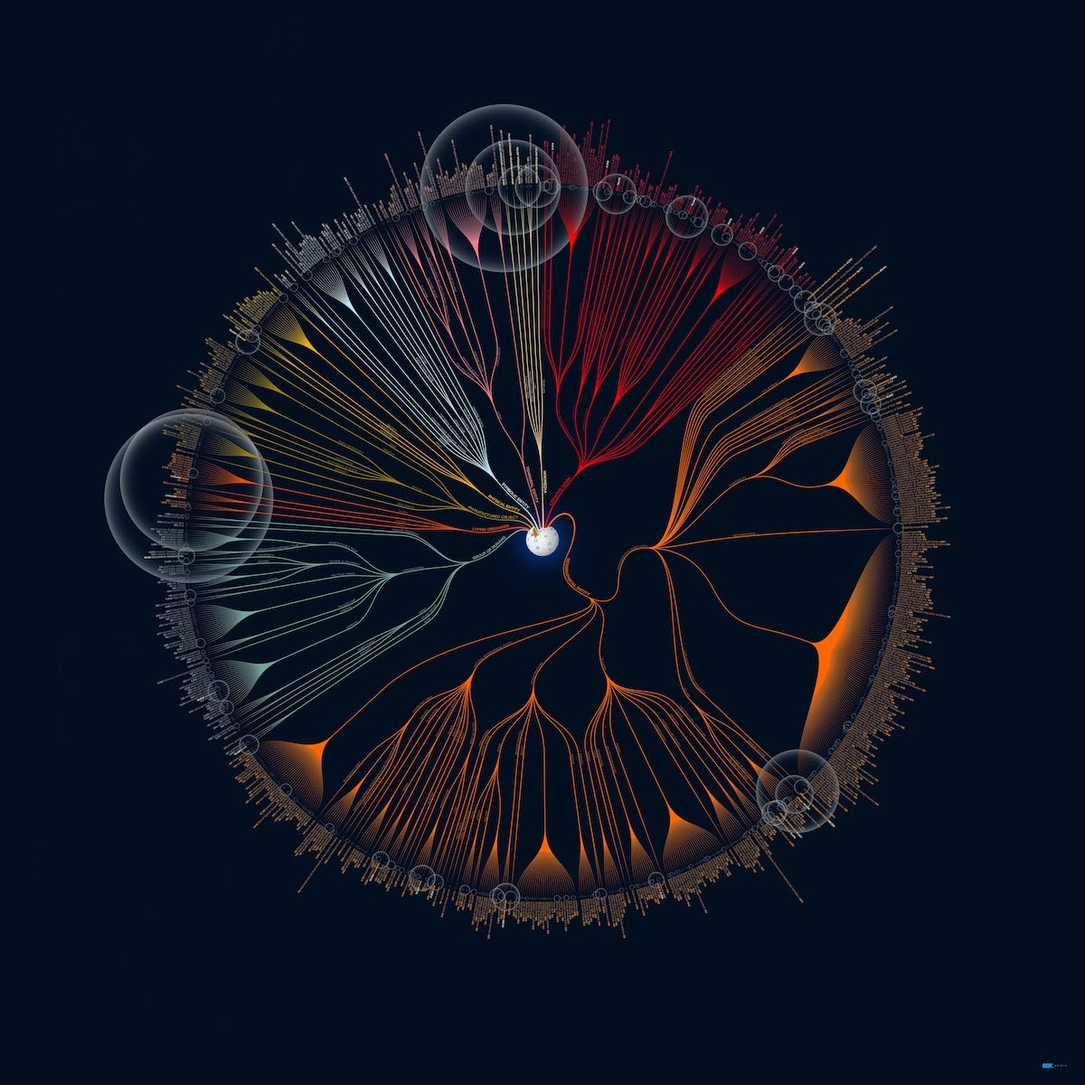
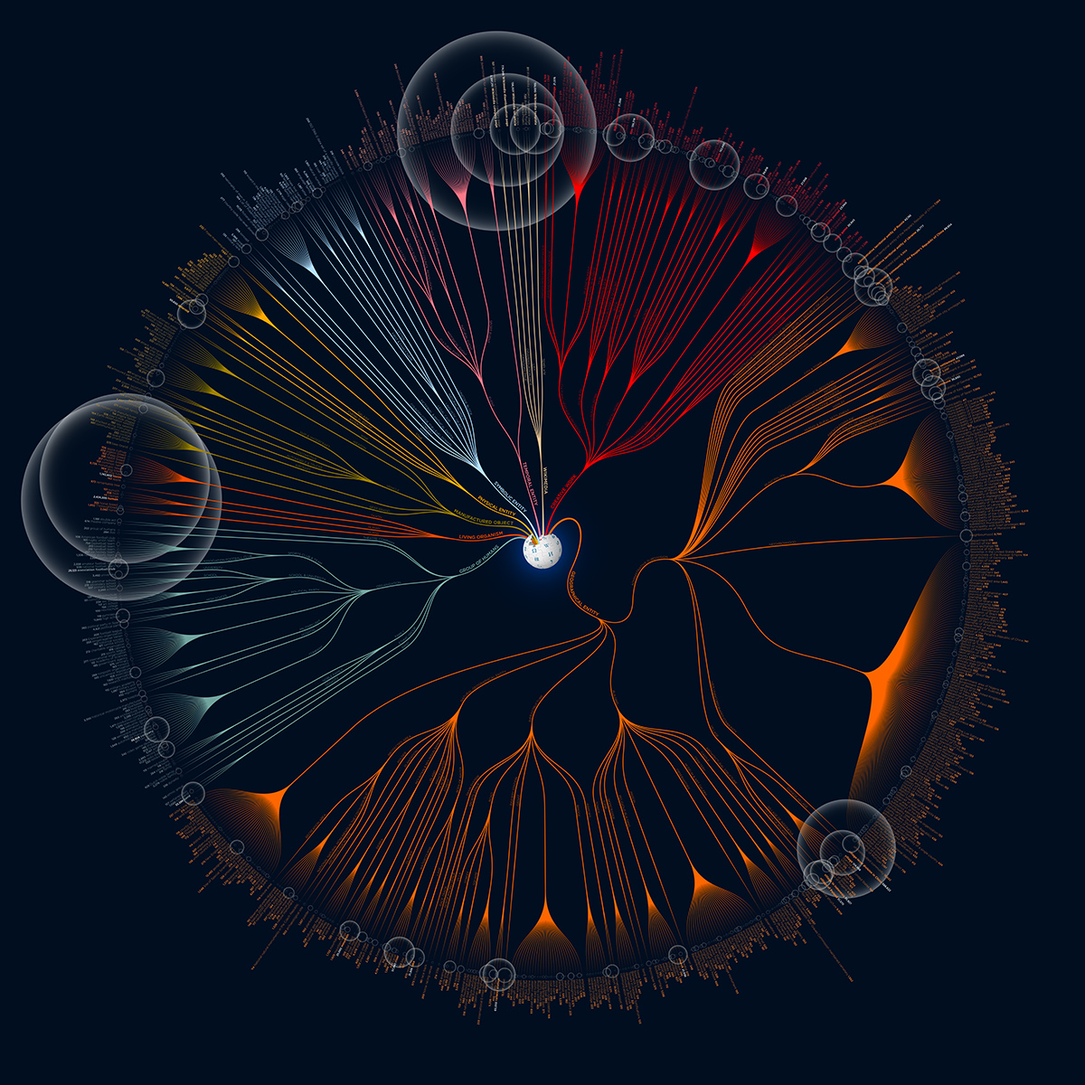
Update images / Add bold to title

Changed region(s): [[0.0, 0.0308, 0.9558, 0.925], [0.6783, 0.555, 0.7092, 0.5858]]

diff --git a/web/css/style.css b/web/css/style.css
@@ -1,1 +1,1 @@
-@-webkit-keyframes fadeIn{0%{opacity:0}100%{opacity:1}}@keyframes fadeIn{0%{opacity:0}100%{opacity:1}}.sxy-zoom-container .sxy-zoom-viewport img{max-width:none !important;border-radius:0 !important}.sxy-zoom-container .sxy-zoom-viewport{z-index:1000}.sxy-zoom-container img{border:0}.sxy-zoom-container div{margin:0;padding:0;border:0}.sxy-zoom-container .sxy-zoom-dragpad,.sxy-zoom-container .sxy-overlay,.sxy-zoom-container .inner-thumb,.sxy-zoom-container .sxy-zoom-bg{width:100%;height:100%}.sxy-zoom-bg{left:0;top:0;position:absolute}.sxy-zoom-container .sxy-controls{height:100%}.sxy-zoom-container .overlay{height:100%}.sxy-zoom-container .sxy-slider{height:100%}.sxy-zoom-container .sxy-zoom-dragpad{position:absolute !important;left:0;top:0}.sxy-zoom-container .sxy-controls{box-sizing:border-box;-moz-box-sizing:border-box;-webkit-box-sizing:border-box;width:26px;left:-26px;top:0px;position:absolute;overflow:hidden;filter:inherit}.sxy-zoom-container .sxy-controls .overlay{position:absolute;top:0px;left:0px;width:26px;border-top-left-radius:3px;-webkit-border-top-left-radius:3px;-moz-border-radius-topleft:3px;border-bottom-left-radius:3px;-webkit-border-bottom-left-radius:3px;-moz-border-radius-bottomleft:3px;background:#fff;filter:inherit}.sxy-zoom-container .in{filter:inherit;left:2px;width:22px;height:23px;background:url(controls.png) 0px -15px;position:relative;display:block;top:3px}.sxy-zoom-container .out{filter:inherit;width:22px;height:23px;background:url(controls.png) 0px -38px;position:relative;left:2px;display:block}.sxy-zoom-container .sxy-slider{filter:inherit;background:url(controls.png) -25px 0px repeat-y;position:relative}.sxy-zoom-container .sxy-handle{filter:inherit;left:2px;width:20px;height:16px;background:url(controls.png) 0px 0px no-repeat;top:20px;position:absolute;font-size:0}.sxy-zoom-container{position:relative}.sxy-zoom-container .sxy-zoom-viewfinder{position:absolute;border:1px solid #d9cfba;border:1px solid rgba(255,255,255,0.4);box-sizing:border-box;-moz-box-sizing:border-box;-webkit-box-sizing:border-box}.sxy-zoom-container .inner-thumb{position:absolute;top:0;left:0}.sxy-zoom-container .sxy-zoom-dragpad{position:relative}.sxy-zoom-container .sxy-zoom-dragpad .sxy-overlay{position:absolute;top:0px;left:0px}.sxy-zoom-container .sxy-zoom-viewport{position:absolute;overflow:hidden;top:0}.sxy-zoom-container .sxy-zoom-viewport img{position:absolute}.sxy-zoom-container.sxy-zoom-loading .sxy-loading{background:#fff;padding:5px;position:absolute;top:0;left:0;margin:5px;border-radius:6px;-webkit-border-radius:6px;-moz-border-radius:6px;box-shadow:2px 2px 4px rgba(50,50,50,0.68);-webkit-box-shadow:2px 2px 4px rgba(50,50,50,0.68);-moz-box-shadow:2px 2px 4px rgba(50,50,50,0.68);opacity:0.35;filter:alpha(opacity=35)}.sxy-zoom-container.sxy-zoom-loading .sxy-loading span{background:url(loading.gif) no-repeat;width:25px;height:25px;display:block}.sxy-zoom-mode-dock .sxy-zoom-viewport{box-sizing:border-box;-moz-box-sizing:border-box;-webkit-box-sizing:border-box;border:1px solid #000;position:absolute;overflow:hidden;top:0;box-shadow:2px 2px 4px rgba(50,50,50,0.68);-webkit-box-shadow:2px 2px 4px rgba(50,50,50,0.68);-moz-box-shadow:2px 2px 4px rgba(50,50,50,0.68)}.sxy-zoom-mode-dock .sxy-zoom-dragpad .sxy-overlay{background:#000000;opacity:0.0;filter:alpha(opacity=0)}.sxy-zoom-mode-window .sxy-zoom-viewfinder{z-index:1001}.sxy-zoom-mode-lens .sxy-zoom-viewport{border:1px solid #000;position:absolute;overflow:hidden;top:0;box-shadow:2px 2px 4px rgba(50,50,50,0.68);-webkit-box-shadow:2px 2px 4px rgba(50,50,50,0.68);-moz-box-shadow:2px 2px 4px rgba(50,50,50,0.68);border-radius:50%}.sxy-zoom-mode-slippy .sxy-zoom-dragpad{cursor:pointer}.sxy-zoom-mode-slippy .sxy-zoom-dragpad.down{cursor:move}@font-face{font-family:'Gotham_Thin';src:url("../fonts/gotham-thin-webfont.eot");src:url("../fonts/gotham-thin-webfont.eot?#iefix") format("embedded-opentype"),url("../fonts/gotham-thin-webfont.woff2") format("woff2"),url("../fonts/gotham-thin-webfont.woff") format("woff"),url("../fonts/gotham-thin-webfont.ttf") format("truetype");font-weight:normal;font-style:normal}@font-face{font-family:'Gotham_Light';src:url("../fonts/gotham-light-webfont.eot");src:url("../fonts/gotham-light-webfont.eot?#iefix") format("embedded-opentype"),url("../fonts/gotham-light-webfont.woff2") format("woff2"),url("../fonts/gotham-light-webfont.woff") format("woff"),url("../fonts/gotham-light-webfont.ttf") format("truetype");font-weight:normal;font-style:normal}@font-face{font-family:'Gotham_Ultra';src:url("../fonts/../fonts/gotham-ultra-webfont.eot");src:url("../fonts/gotham-ultra-webfont.eot?#iefix") format("embedded-opentype"),url("../fonts/gotham-ultra-webfont.woff2") format("woff2"),url("../fonts/gotham-ultra-webfont.woff") format("woff"),url("../fonts/gotham-ultra-webfont.ttf") format("truetype");font-weight:normal;font-style:normal}*{-webkit-box-sizing:border-box;-moz-box-sizing:border-box;box-sizing:border-box}*:before,*:after{-webkit-box-sizing:border-box;-moz-box-sizing:border-box;box-sizing:border-box}*:before,*:after{-webkit-box-sizing:border-box;-moz-box-sizing:border-box;box-sizing:border-box}html{font-size:100%;-webkit-text-size-adjust:100%;-ms-text-size-adjust:100%;height:100%}html,button,input,select,textarea{font-family:"Gotham_Thin", Helvetica, Arial, Verdana, sans-serif;color:#009eff}body{background:#000e1f;margin:0;padding:0;height:100%}.visuallyhidden{border:0;clip:rect(0 0 0 0);height:1px;margin:-1px;overflow:hidden;padding:0;position:absolute;width:1px}hr{border:0;border-top-width:1px;border-color:#009eff;border-style:solid;clear:both;height:0;display:block;margin:0}a{color:#009eff;outline:0;text-decoration:none;-webkit-transition:all 0.5s ease-out;-moz-transition:all 0.5s ease-out;-o-transition:all 0.5s ease-out;-ms-transition:all 0.5s ease-out;transition:all 0.5s ease-out;-webkit-backface-visibility:hidden;-webkit-transform:translate3d(0, 0, 0)}.left{float:left}.right{float:right}.aligncenter{text-align:center}.alignleft{float:left;margin:0 14px 10px 0}.alignright{float:right;margin:0 0 10px 14px}.floatleft{float:left}.floatright{float:right}img.alignleft,img.alignright,.img.aligncenter{display:block}img.aligncenter{margin-left:auto;margin-right:auto}b,strong{font-weight:bold}ul,ol{margin:1em 0;padding:0 0 0 40px}img{border:0;vertical-align:middle}form{margin:0}fieldset{border:0;margin:0;padding:0}label{cursor:pointer}button,input,select,textarea{font-size:100%;margin:0;vertical-align:baseline}button{background:none;border:none;margin:0;padding:0}button:focus,input:focus,textarea:focus{outline:none}.oldie select,.oldie textarea{vertical-align:middle}button,input{line-height:normal}button,input[type="button"],input[type="reset"],input[type="submit"]{cursor:pointer;-webkit-appearance:button}.oldie button,.oldie input{overflow:visible;vertical-align:middle}textarea{overflow:auto;vertical-align:top;resize:vertical}.unstyled{list-style-type:none;margin:0;padding:0}.clearfix{zoom:1}.clearfix:before,.clearfix:after{content:"";display:table}.clearfix:after{clear:both}.wrapper__intro{display:table;height:100%;width:100%}.wrapper__intro h1{opacity:0;-webkit-animation:fadeIn 1s ease forwards 1s;-moz-animation:fadeIn 1s ease forwards 1s;-o-animation:fadeIn 1s ease forwards 1s;-ms-animation:fadeIn 1s ease forwards 1s;animation:fadeIn 1s ease forwards 1s;-webkit-transform:translateZ(0);clear:both;display:block;font:normal 5.9375em "Gotham_Light",Verdana,Arial,sans-serif;margin:0;padding:20px 0 10px 0}.wrapper__intro p{opacity:0;-webkit-animation:fadeIn 1s ease forwards 2s;-moz-animation:fadeIn 1s ease forwards 2s;-o-animation:fadeIn 1s ease forwards 2s;-ms-animation:fadeIn 1s ease forwards 2s;animation:fadeIn 1s ease forwards 2s;-webkit-transform:translateZ(0);display:block;font:normal 1em 'Gotham_Light', Verdana, Arial, sans-serif;margin:0 auto;padding:0 0 30px 0;width:650px}.logo{opacity:0;-webkit-animation:fadeIn 1s forwards ease;-moz-animation:fadeIn 1s forwards ease;-o-animation:fadeIn 1s forwards ease;-ms-animation:fadeIn 1s forwards ease;animation:fadeIn 1s forwards ease;-webkit-transform:translateZ(0);background:url(../images/logo-wikidata.png) left top no-repeat;display:block;height:177px;margin:0 auto;padding:0;width:195px;-webkit-filter:drop-shadow(0 0 50px #009eff)}.loading{padding:0 0 0 0;opacity:0;-webkit-animation:fadeIn 1s ease forwards 3s;-moz-animation:fadeIn 1s ease forwards 3s;-o-animation:fadeIn 1s ease forwards 3s;-ms-animation:fadeIn 1s ease forwards 3s;animation:fadeIn 1s ease forwards 3s;-webkit-transform:translateZ(0)}.bt-explore{cursor:pointer;display:none;font-size:3em;padding:0}.wrapper__intro__body{display:table-cell;text-align:center;vertical-align:middle}.wrapper__graph{display:none}.wrapper__graph__body{display:block;margin:0 auto}.wrapper__graph_left,.wrapper__graph_right{position:fixed;height:100%;left:40px;top:0;width:300px;z-index:10}.wrapper__graph_left p,.wrapper__graph_right p{display:block;font-size:1em}.wrapper__graph_left h2,.wrapper__graph_right h2{display:block;font-size:3.125em;margin:0;padding:0 0 10px 0}.wrapper__graph_left h3,.wrapper__graph_right h3{display:block;font-size:2.1875em;margin:0;padding:0 0 10px 0}.wrapper__graph_right{left:auto;right:40px;text-align:center;width:140px}.wrapper__graph_right ul{list-style-type:none;margin:0;padding:0}.wrapper__graph_right li{display:block;height:44px;margin:0 0 15px 0;padding:0;position:relative;z-index:1}.wrapper__graph_right li:after{border-left:1px solid #009eff;content:'';display:block;margin:0 auto;padding:0;height:25px;width:1px}.wrapper__graph_right li:before{background:#009eff;border-radius:50%;content:'';display:block;height:4px;width:4px;position:absolute;bottom:0;margin:0 0 0 -1px;left:50%}.wrapper__graph_right .range-2{height:50px}.wrapper__graph_right .range-2:before{height:14px;margin:0 0 0 -7px;width:14px}.wrapper__graph_right .range-3{height:85px}.wrapper__graph_right .range-3:before{height:46px;margin:0 0 0 -23px;width:46px}.wrapper__graph_right .range-4{height:172px}.wrapper__graph_right .range-4:before{height:130px;margin:0 0 0 -65px;width:130px}.wrapper__graph_left__body,.wrapper__graph_right__body{display:table;height:100%;width:100%}.wrapper__graph_left__body__inner,.wrapper__graph_right__body__inner{display:table-cell;vertical-align:middle}.see-more{-webkit-transition:opacity 0.5s linear;-moz-transition:opacity 0.5s linear;-o-transition:opacity 0.5s linear;-ms-transition:opacity 0.5s linear;transition:opacity 0.5s linear;-webkit-backface-visibility:hidden;-webkit-transform:translate3d(0, 0, 0);background:#009eff;cursor:pointer;border-radius:50%;color:#000e1f;display:block;font-size:3em;height:60px;line-height:60px;margin:0;padding:0;text-align:center;width:60px}.see-more.active .default,.see-more .active{opacity:0;display:none}.see-more.active .active,.see-more .default{opacity:1;display:block}.see-more em{font-style:normal}.see-more__body{-webkit-transition:opacity 0.5s linear;-moz-transition:opacity 0.5s linear;-o-transition:opacity 0.5s linear;-ms-transition:opacity 0.5s linear;transition:opacity 0.5s linear;-webkit-backface-visibility:hidden;-webkit-transform:translate3d(0, 0, 0);opacity:0;display:none;padding:10px 0 0 0}.see-more__body.active{opacity:1;display:block}.dld-pdf{background:#009eff;cursor:pointer;border-radius:50%;color:#000e1f;display:block;font-size:1em;height:50px;line-height:50px;margin:0;padding:0;text-align:center;text-transform:uppercase;width:50px}.loader{margin:0 auto}.loader svg{width:60px;height:60px}.loader svg path,.loader svg rect{fill:#009eff}
+@-webkit-keyframes fadeIn{0%{opacity:0}100%{opacity:1}}@keyframes fadeIn{0%{opacity:0}100%{opacity:1}}@keyframes fromBottomToTop{0%{transform:translate3d(0, 100%, 0);backface-visibility:hidden;perspective:1000}100%{transform:translate3d(0, 0, 0);backface-visibility:hidden;perspective:1000}}.sxy-zoom-container .sxy-zoom-viewport img{max-width:none !important;border-radius:0 !important}.sxy-zoom-container .sxy-zoom-viewport{z-index:1000}.sxy-zoom-container img{border:0}.sxy-zoom-container div{margin:0;padding:0;border:0}.sxy-zoom-container .sxy-zoom-dragpad,.sxy-zoom-container .sxy-overlay,.sxy-zoom-container .inner-thumb,.sxy-zoom-container .sxy-zoom-bg{width:100%;height:100%}.sxy-zoom-bg{left:0;top:0;position:absolute}.sxy-zoom-container .sxy-controls{height:100%}.sxy-zoom-container .overlay{height:100%}.sxy-zoom-container .sxy-slider{height:100%}.sxy-zoom-container .sxy-zoom-dragpad{position:absolute !important;left:0;top:0}.sxy-zoom-container .sxy-controls{box-sizing:border-box;-moz-box-sizing:border-box;-webkit-box-sizing:border-box;width:26px;left:-26px;top:0px;position:absolute;overflow:hidden;filter:inherit}.sxy-zoom-container .sxy-controls .overlay{position:absolute;top:0px;left:0px;width:26px;border-top-left-radius:3px;-webkit-border-top-left-radius:3px;-moz-border-radius-topleft:3px;border-bottom-left-radius:3px;-webkit-border-bottom-left-radius:3px;-moz-border-radius-bottomleft:3px;background:#fff;filter:inherit}.sxy-zoom-container .in{filter:inherit;left:2px;width:22px;height:23px;background:url(controls.png) 0px -15px;position:relative;display:block;top:3px}.sxy-zoom-container .out{filter:inherit;width:22px;height:23px;background:url(controls.png) 0px -38px;position:relative;left:2px;display:block}.sxy-zoom-container .sxy-slider{filter:inherit;background:url(controls.png) -25px 0px repeat-y;position:relative}.sxy-zoom-container .sxy-handle{filter:inherit;left:2px;width:20px;height:16px;background:url(controls.png) 0px 0px no-repeat;top:20px;position:absolute;font-size:0}.sxy-zoom-container{position:relative}.sxy-zoom-container .sxy-zoom-viewfinder{position:absolute;border:1px solid #d9cfba;border:1px solid rgba(255,255,255,0.4);box-sizing:border-box;-moz-box-sizing:border-box;-webkit-box-sizing:border-box}.sxy-zoom-container .inner-thumb{position:absolute;top:0;left:0}.sxy-zoom-container .sxy-zoom-dragpad{position:relative}.sxy-zoom-container .sxy-zoom-dragpad .sxy-overlay{position:absolute;top:0px;left:0px}.sxy-zoom-container .sxy-zoom-viewport{position:absolute;overflow:hidden;top:0}.sxy-zoom-container .sxy-zoom-viewport img{position:absolute}.sxy-zoom-container.sxy-zoom-loading .sxy-loading{background:#fff;padding:5px;position:absolute;top:0;left:0;margin:5px;border-radius:6px;-webkit-border-radius:6px;-moz-border-radius:6px;box-shadow:2px 2px 4px rgba(50,50,50,0.68);-webkit-box-shadow:2px 2px 4px rgba(50,50,50,0.68);-moz-box-shadow:2px 2px 4px rgba(50,50,50,0.68);opacity:0.35;filter:alpha(opacity=35)}.sxy-zoom-container.sxy-zoom-loading .sxy-loading span{background:url(loading.gif) no-repeat;width:25px;height:25px;display:block}.sxy-zoom-mode-dock .sxy-zoom-viewport{box-sizing:border-box;-moz-box-sizing:border-box;-webkit-box-sizing:border-box;border:1px solid #000;position:absolute;overflow:hidden;top:0;box-shadow:2px 2px 4px rgba(50,50,50,0.68);-webkit-box-shadow:2px 2px 4px rgba(50,50,50,0.68);-moz-box-shadow:2px 2px 4px rgba(50,50,50,0.68)}.sxy-zoom-mode-dock .sxy-zoom-dragpad .sxy-overlay{background:#000000;opacity:0.0;filter:alpha(opacity=0)}.sxy-zoom-mode-window .sxy-zoom-viewfinder{z-index:1001}.sxy-zoom-mode-lens .sxy-zoom-viewport{border:1px solid #000;position:absolute;overflow:hidden;top:0;box-shadow:2px 2px 4px rgba(50,50,50,0.68);-webkit-box-shadow:2px 2px 4px rgba(50,50,50,0.68);-moz-box-shadow:2px 2px 4px rgba(50,50,50,0.68);border-radius:50%}.sxy-zoom-mode-slippy .sxy-zoom-dragpad{cursor:pointer}.sxy-zoom-mode-slippy .sxy-zoom-dragpad.down{cursor:move}@font-face{font-family:'Gotham_Thin';src:url("../fonts/gotham-thin-webfont.eot");src:url("../fonts/gotham-thin-webfont.eot?#iefix") format("embedded-opentype"),url("../fonts/gotham-thin-webfont.woff2") format("woff2"),url("../fonts/gotham-thin-webfont.woff") format("woff"),url("../fonts/gotham-thin-webfont.ttf") format("truetype");font-weight:normal;font-style:normal}@font-face{font-family:'Gotham_Light';src:url("../fonts/gotham-light-webfont.eot");src:url("../fonts/gotham-light-webfont.eot?#iefix") format("embedded-opentype"),url("../fonts/gotham-light-webfont.woff2") format("woff2"),url("../fonts/gotham-light-webfont.woff") format("woff"),url("../fonts/gotham-light-webfont.ttf") format("truetype");font-weight:normal;font-style:normal}@font-face{font-family:'Gotham_Ultra';src:url("../fonts/../fonts/gotham-ultra-webfont.eot");src:url("../fonts/gotham-ultra-webfont.eot?#iefix") format("embedded-opentype"),url("../fonts/gotham-ultra-webfont.woff2") format("woff2"),url("../fonts/gotham-ultra-webfont.woff") format("woff"),url("../fonts/gotham-ultra-webfont.ttf") format("truetype");font-weight:normal;font-style:normal}*{-webkit-box-sizing:border-box;-moz-box-sizing:border-box;box-sizing:border-box}*:before,*:after{-webkit-box-sizing:border-box;-moz-box-sizing:border-box;box-sizing:border-box}*:before,*:after{-webkit-box-sizing:border-box;-moz-box-sizing:border-box;box-sizing:border-box}html{font-size:100%;-webkit-text-size-adjust:100%;-ms-text-size-adjust:100%;height:100%}html,button,input,select,textarea{font-family:"Gotham_Thin", Helvetica, Arial, Verdana, sans-serif;color:#009eff}body{background:#000e1f;margin:0;padding:0;height:100%}.visuallyhidden{border:0;clip:rect(0 0 0 0);height:1px;margin:-1px;overflow:hidden;padding:0;position:absolute;width:1px}hr{border:0;border-top-width:1px;border-color:#009eff;border-style:solid;clear:both;height:0;display:block;margin:0}a{color:#009eff;outline:0;text-decoration:none;-webkit-transition:all 0.5s ease-out;-moz-transition:all 0.5s ease-out;-o-transition:all 0.5s ease-out;-ms-transition:all 0.5s ease-out;transition:all 0.5s ease-out;-webkit-backface-visibility:hidden;-webkit-transform:translate3d(0, 0, 0)}.left{float:left}.right{float:right}.aligncenter{text-align:center}.alignleft{float:left;margin:0 14px 10px 0}.alignright{float:right;margin:0 0 10px 14px}.floatleft{float:left}.floatright{float:right}img.alignleft,img.alignright,.img.aligncenter{display:block}img.aligncenter{margin-left:auto;margin-right:auto}b,strong{font-weight:bold}ul,ol{margin:1em 0;padding:0 0 0 40px}img{border:0;vertical-align:middle}form{margin:0}fieldset{border:0;margin:0;padding:0}label{cursor:pointer}button,input,select,textarea{font-size:100%;margin:0;vertical-align:baseline}button{background:none;border:none;margin:0;padding:0}button:focus,input:focus,textarea:focus{outline:none}.oldie select,.oldie textarea{vertical-align:middle}button,input{line-height:normal}button,input[type="button"],input[type="reset"],input[type="submit"]{cursor:pointer;-webkit-appearance:button}.oldie button,.oldie input{overflow:visible;vertical-align:middle}textarea{overflow:auto;vertical-align:top;resize:vertical}.unstyled{list-style-type:none;margin:0;padding:0}.clearfix{zoom:1}.clearfix:before,.clearfix:after{content:"";display:table}.clearfix:after{clear:both}.wrapper__intro{display:table;height:100%;width:100%}.wrapper__intro h1{opacity:0;-webkit-animation:fadeIn 1s ease forwards 1s;-moz-animation:fadeIn 1s ease forwards 1s;-o-animation:fadeIn 1s ease forwards 1s;-ms-animation:fadeIn 1s ease forwards 1s;animation:fadeIn 1s ease forwards 1s;clear:both;display:block;font:normal 5.9375em "Gotham_Light",Verdana,Arial,sans-serif;margin:0;padding:20px 0 10px 0}.wrapper__intro p{opacity:0;-webkit-animation:fadeIn 1s ease forwards 2s;-moz-animation:fadeIn 1s ease forwards 2s;-o-animation:fadeIn 1s ease forwards 2s;-ms-animation:fadeIn 1s ease forwards 2s;animation:fadeIn 1s ease forwards 2s;display:block;font:normal .9em/1.3 'Gotham_Light', Verdana, Arial, sans-serif;margin:0 auto;padding:0 0 30px 0;width:650px}.logo{opacity:0;-webkit-animation:fadeIn 1s ease forwards;-moz-animation:fadeIn 1s ease forwards;-o-animation:fadeIn 1s ease forwards;-ms-animation:fadeIn 1s ease forwards;animation:fadeIn 1s ease forwards;background:url(../images/logo-wikidata.png) left top no-repeat;display:block;height:177px;margin:0 auto;padding:0;position:relative;width:195px;-webkit-filter:drop-shadow(0 0 50px #009eff)}.loading{padding:0 0 0 0;opacity:0;-webkit-animation:fadeIn 1s ease forwards 3s;-moz-animation:fadeIn 1s ease forwards 3s;-o-animation:fadeIn 1s ease forwards 3s;-ms-animation:fadeIn 1s ease forwards 3s;animation:fadeIn 1s ease forwards 3s}.bt-explore{cursor:pointer;display:none;font-size:3em;padding:0}.wrapper__intro__body{display:table-cell;text-align:center;vertical-align:middle}.wrapper__graph{display:none}.wrapper__graph__body{display:block;margin:0 auto}.wrapper__graph_left,.wrapper__graph_right{background:rgba(0,14,31,0.6);position:fixed;height:100%;left:0;top:0;padding:0 0 0 40px;width:300px;z-index:10}.wrapper__graph_left p,.wrapper__graph_right p{display:block;font:normal 1em 'Gotham_Light', Verdana, Arial, sans-serif}.wrapper__graph_left h2,.wrapper__graph_right h2{display:block;font-size:2.5em;margin:0;padding:0 0 10px 0}.wrapper__graph_left h3,.wrapper__graph_right h3{display:block;font-size:1.5625em;margin:0;padding:0 0 10px 0}.wrapper__graph_right{padding:0 40px 0 0;left:auto;right:0;text-align:center;width:140px}.wrapper__graph_right ul{list-style-type:none;margin:0;padding:0}.wrapper__graph_right li{display:block;height:44px;margin:0 0 15px 0;padding:0;position:relative;z-index:1}.wrapper__graph_right li:after{border-left:1px solid #009eff;content:'';display:block;margin:0 auto;padding:0;height:25px;width:1px}.wrapper__graph_right li:before{background:#009eff;border-radius:50%;content:'';display:block;height:4px;width:4px;position:absolute;bottom:0;margin:0 0 0 -1px;left:50%}.wrapper__graph_right .range-2{height:50px}.wrapper__graph_right .range-2:before{height:14px;margin:0 0 0 -7px;width:14px}.wrapper__graph_right .range-3{height:85px}.wrapper__graph_right .range-3:before{height:46px;margin:0 0 0 -23px;width:46px}.wrapper__graph_right .range-4{height:172px}.wrapper__graph_right .range-4:before{height:130px;margin:0 0 0 -65px;width:130px}.wrapper__graph_left__body,.wrapper__graph_right__body{display:table;height:100%;width:100%}.wrapper__graph_left__body__inner,.wrapper__graph_right__body__inner{display:table-cell;vertical-align:middle}.see-more{-webkit-transition:opacity 0.5s linear;-moz-transition:opacity 0.5s linear;-o-transition:opacity 0.5s linear;-ms-transition:opacity 0.5s linear;transition:opacity 0.5s linear;-webkit-backface-visibility:hidden;-webkit-transform:translate3d(0, 0, 0);background:#009eff;cursor:pointer;border-radius:50%;color:#000e1f;display:block;font-size:3em;height:60px;line-height:60px;margin:0;padding:0;text-align:center;width:60px}.see-more.active .default,.see-more .active{opacity:0;display:none}.see-more.active .active,.see-more .default{opacity:1;display:block}.see-more em{font-style:normal}.see-more__body{-webkit-transition:opacity 0.5s linear;-moz-transition:opacity 0.5s linear;-o-transition:opacity 0.5s linear;-ms-transition:opacity 0.5s linear;transition:opacity 0.5s linear;-webkit-backface-visibility:hidden;-webkit-transform:translate3d(0, 0, 0);opacity:0;display:none;padding:10px 0 0 0}.see-more__body.active{opacity:1;display:block}.dld-pdf{background:#009eff;cursor:pointer;border-radius:50%;color:#000e1f;display:block;font-size:1em;height:50px;line-height:50px;margin:0;padding:0;text-align:center;text-transform:uppercase;width:50px}.loader{margin:0 auto}.loader svg{width:60px;height:60px}.loader svg path,.loader svg rect{fill:#009eff}

diff --git a/web/index.html b/web/index.html
@@ -43,7 +43,7 @@
             <div class="wrapper__intro__body">
                 <div class="wrapper__intro__body__inner">
                     <div class="logo"></div>
-                    <h1>What is Wikipedia about?</h1>
+                    <h1>What is <strong>Wikipedia</strong> about?</h1>
                     <p>
                         Lorem ipsum dolor sit amet, consectetur adipisicing elit. Labore doloremque, quaerat nulla. Distinctio quod eaque, illum odio voluptatibus animi voluptatem necessitatibus possimus nihil at amet. Assumenda, unde, quas. Voluptate, quis.
                     </p>
@@ -76,7 +76,7 @@
             <div class="wrapper__graph_left">
                 <div class="wrapper__graph_left__body">
                     <div class="wrapper__graph_left__body__inner">
-                        <h2>What is Wikipedia about?</h2>
+                        <h2>What is <strong>Wikipedia</strong> about?</h2>
                         <p>
                             Distribution of the 10,568,679 items on Wikipedia, sorted by type.
                         </p>
@@ -85,11 +85,11 @@
                             <em class="active">&times;</em>
                         </span>
                         <div class="see-more__body">
-                            <h3>How to read it</h3>
+                            <h3>How to <strong>read</strong> it</h3>
                             <p>
                                 Wikipedia includes articles about 2,424,305 humans. Surprisingly, it also has articles about 588,822 different Chinese villages.
                             </p>
-                            <h3>Technical note</h3>
+                            <h3><strong>Technical</strong> note</h3>
                             <p>
                                The type of each item on Wikipedia is defined by the property “instance of” (P31) <br />on Wikidata. On July 28th 2014, we collected 12,607<br /> different types using Magnus Manske’s WikiDataQuery <br />API. We have selected<br />the 781 types describing at least 100 items. These 781 types cover 99,16% of the whole dataset. We have arranged them into 9 main categories (living organism, wikimedia, geographical entity, creative work, group of humans, physical entity, symbolic entity, manufactured object, and temporal entity).
                             </p>
@@ -104,12 +104,6 @@
                 </div><!-- .wrapper__graph_left__body -->
             </div><!-- .wrapper__graph_left -->
 
-            <div class="wrapper__graph__body">
-                <a href="images/what_is_Wikipedia_about-8000.jpg" class="sxyzoom swinxylens">
-                    <img src="images/what_is_Wikipedia_about-1200.jpg" title="" />
-                </a>
-            </div><!-- .wrapper__graph__body -->
-
             <div class="wrapper__graph_right">
                 <div class="wrapper__graph_right__body">
                     <div class="wrapper__graph_right__body__inner">
@@ -123,6 +117,12 @@
                     </div><!-- .wrapper__graph_right__body__inner -->
                 </div><!-- .wrapper__graph_right__body -->
             </div><!-- .wrapper__graph_right -->
+            
+            <div class="wrapper__graph__body">
+                <a href="images/what_is_Wikipedia_about-8000.jpg" class="sxyzoom swinxylens">
+                    <img src="images/what_is_Wikipedia_about-1200.jpg" title="" />
+                </a>
+            </div><!-- .wrapper__graph__body -->
         </div><!-- .wrapper__graph -->
 
     </body>

diff --git a/web/scss/style.scss b/web/scss/style.scss
@@ -119,9 +119,9 @@ textarea { overflow: auto; vertical-align: top; resize: vertical; }
     }
     p {
         opacity: 0;
-        @include animation(fadeIn 1s ease  forwards 2s);
+        @include animation(fadeIn 1s ease forwards 2s);
         display: block;
-        font:normal 1em 'Gotham_Light', Verdana, Arial, sans-serif;
+        font:normal .9em/1.3 'Gotham_Light', Verdana, Arial, sans-serif;
         margin: 0 auto;
         padding: 0 0 30px 0;
         width:650px;
@@ -130,12 +130,13 @@ textarea { overflow: auto; vertical-align: top; resize: vertical; }
 
 .logo {
     opacity: 0;
-    @include animation(fadeIn 1s forwards ease);
+    @include animation(fadeIn 1s ease forwards);
     background:url(../images/logo-wikidata.png) left top no-repeat;
     display: block;
     height: 177px;
     margin: 0 auto;
     padding: 0;
+    position: relative;
     width:195px;
     //@include image-2x("images/logo-wikidata-2x.png", 195px, 177px);
     -webkit-filter: drop-shadow( 0 0 50px $default-color);
@@ -170,33 +171,36 @@ textarea { overflow: auto; vertical-align: top; resize: vertical; }
 }
 
 .wrapper__graph_left, .wrapper__graph_right {
+    background:rgba(0,14,31,.6);
     position:fixed;
     height:100%;
-    left:40px;
+    left:0;
     top:0;
+    padding:0 0 0 40px;
     width:300px;
     z-index:10;
     p {
         display: block;
-        font-size:1em;
+        font:normal 1em 'Gotham_Light', Verdana, Arial, sans-serif; 
     }
     h2 {
         display: block;
-        font-size: em(50px);
+        font-size: em(40px);
         margin:0;
         padding:0 0 10px 0;
     }
     h3 {
         display: block;
-        font-size: em(35px);
+        font-size: em(25px);
         margin:0;
         padding:0 0 10px 0;  
     }
 }
 
 .wrapper__graph_right {
+    padding:0 40px 0 0;
     left:auto;
-    right:40px;
+    right:0;
     text-align: center;
     width:140px;
     ul {

diff --git a/web/scss/_elements.scss b/web/scss/_elements.scss
@@ -37,7 +37,6 @@ $default-color:#009eff;
   -o-animation:$transition;
   -ms-animation:$transition;
   animation:$transition;
-  -webkit-transform: translateZ(0);
 }
 
 // RETINA
@@ -60,4 +59,18 @@ $default-color:#009eff;
 @keyframes fadeIn {
   0%   { opacity: 0; }
   100% { opacity: 1; }
+}
+
+@keyframes fromBottomToTop {
+  0% {
+    transform: translate3d(0,100%,0);
+    backface-visibility: hidden;
+    perspective: 1000;
+  }
+
+  100% {
+    transform: translate3d(0,0,0);
+    backface-visibility: hidden;
+    perspective: 1000;
+  }
 }
